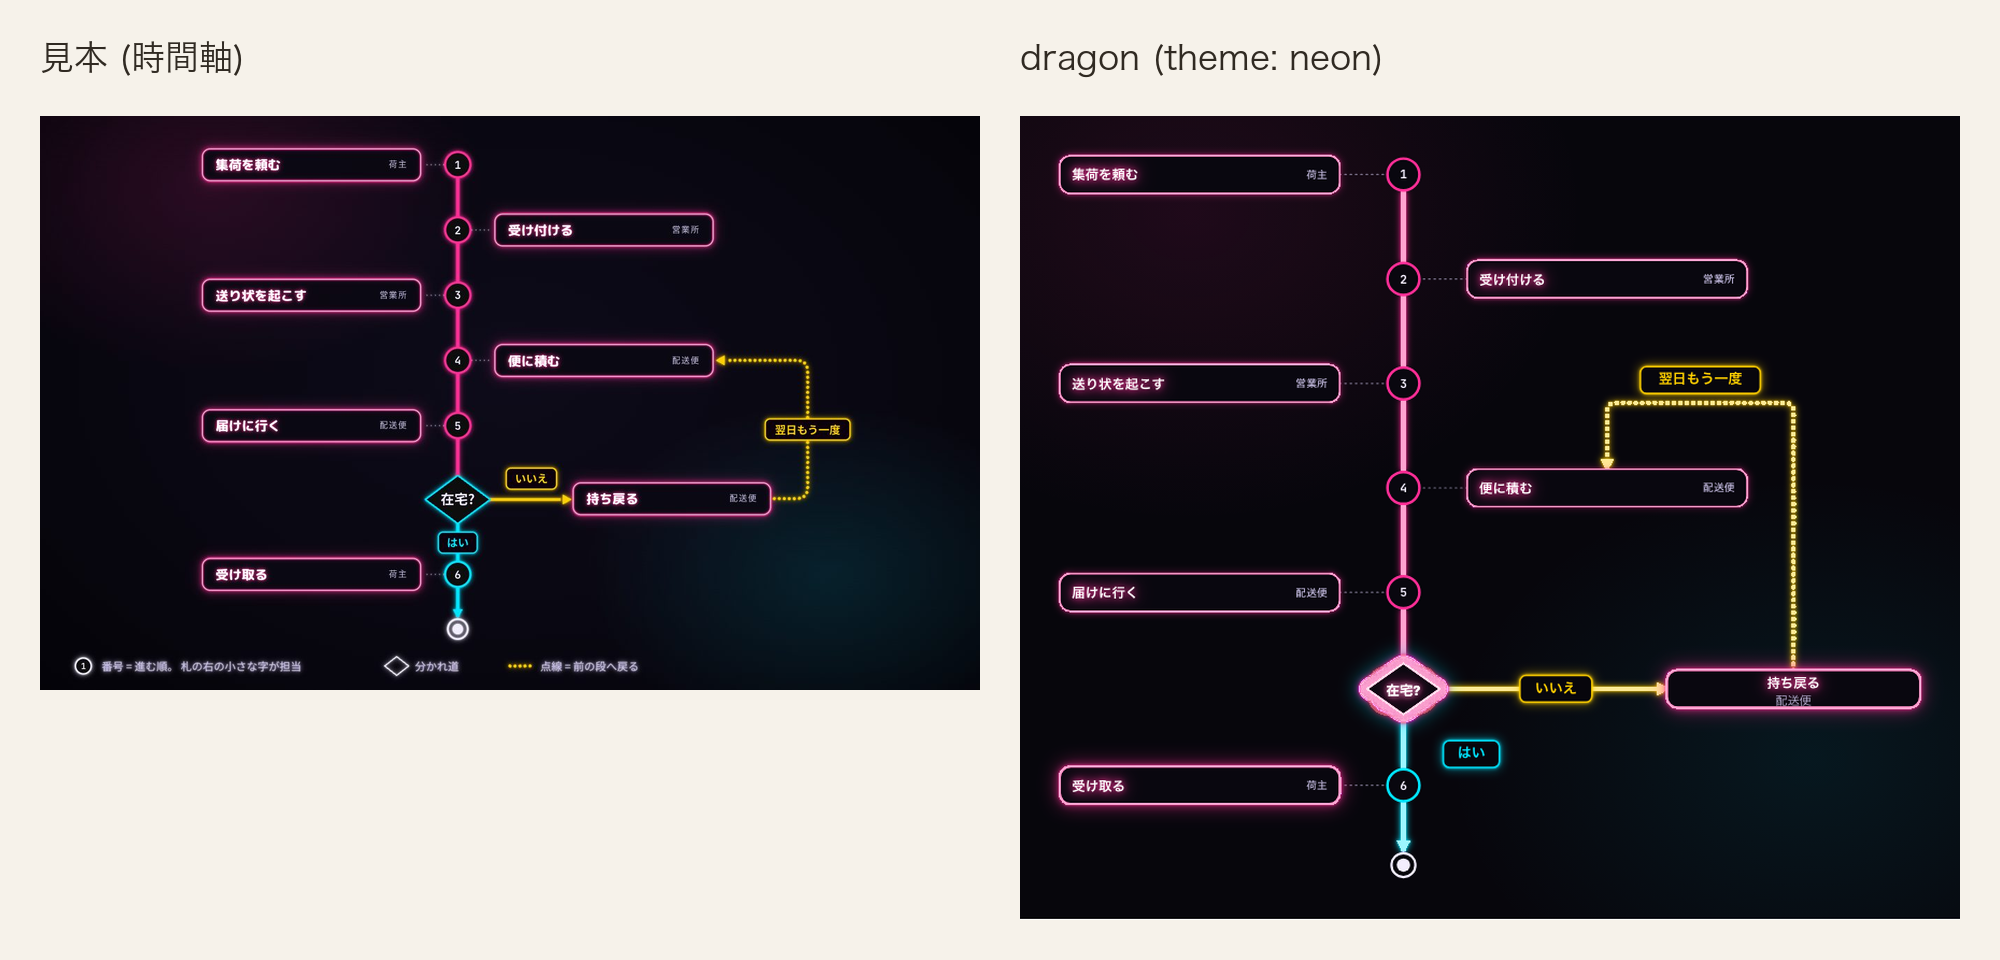
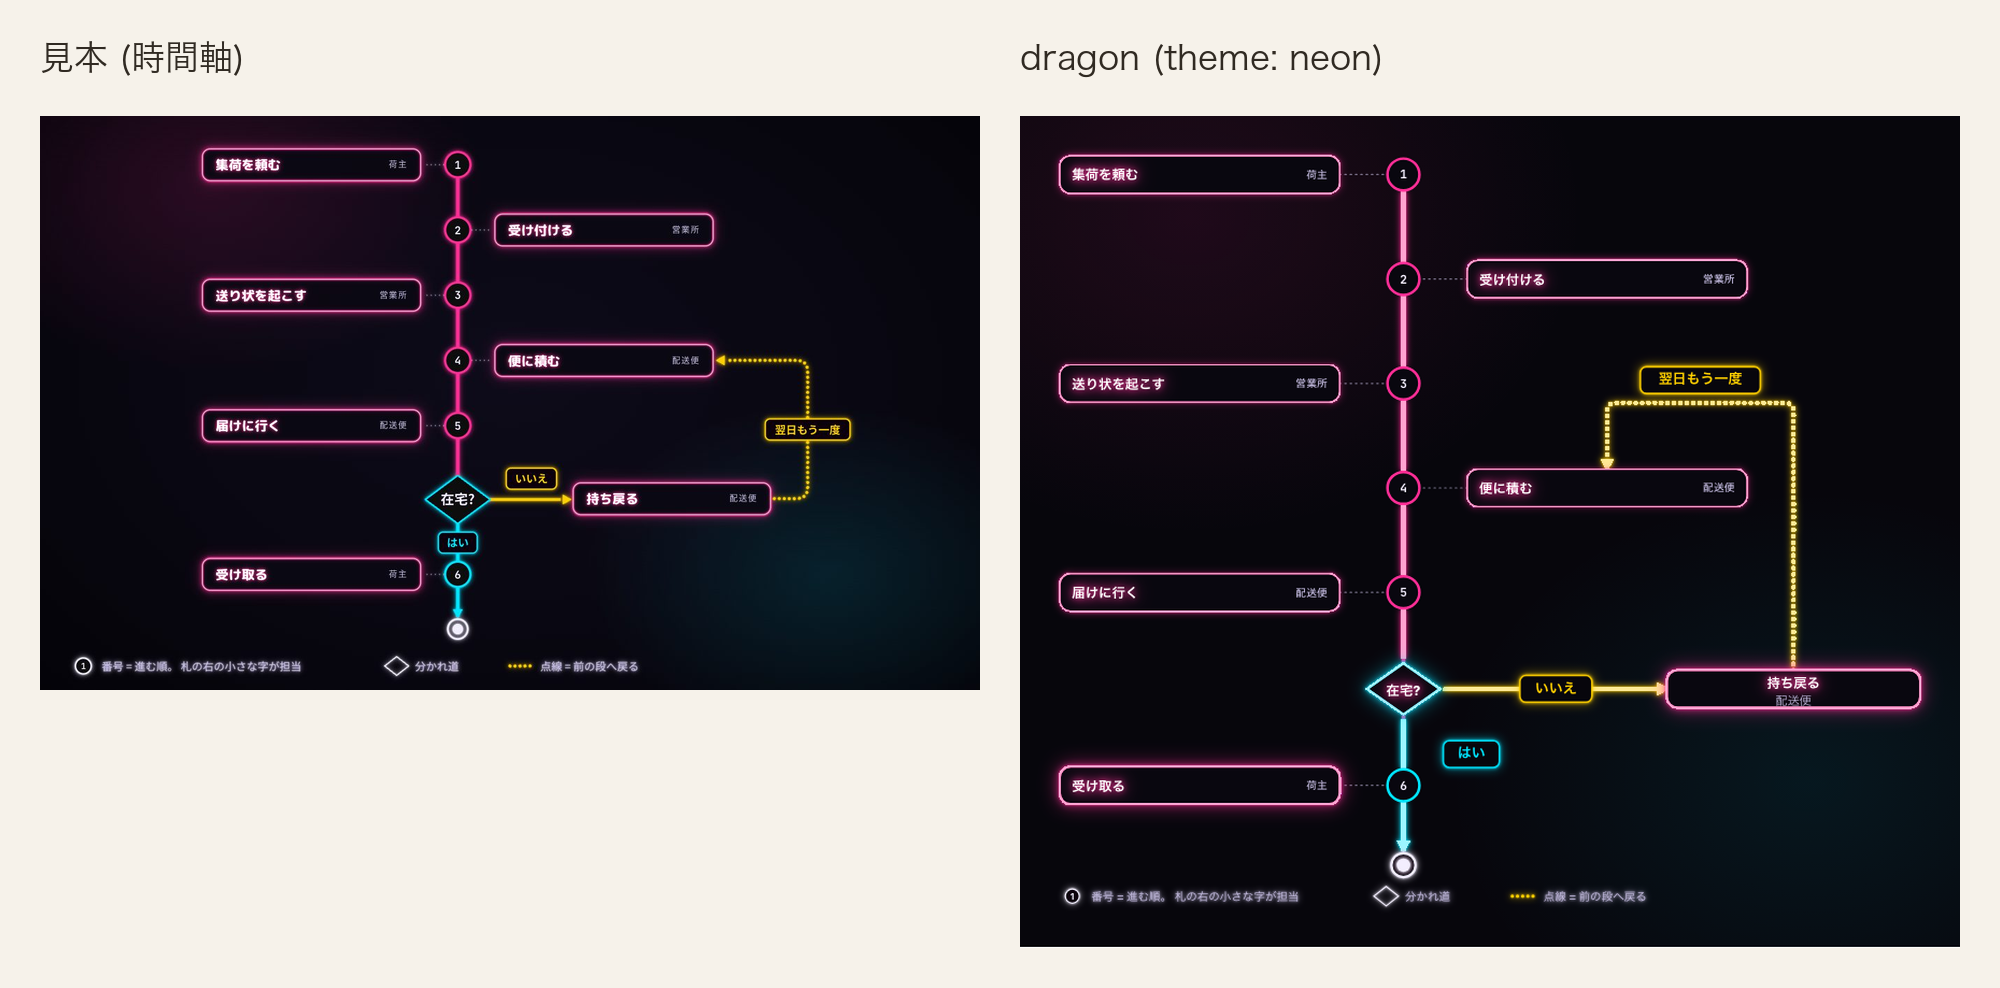
✨ feat(見本帳): 時間軸の見本に見本と同じ凡例を置き比較画像を撮り直す (#2832)
見本帳の時間軸 (荷物を届ける) の YAML と JSON に、見本の g.legend と同じ 3 項目の凡例を置く。
印は numbered-circle / diamond / dotted-line で、字は見本と同じにする。
見本帳が使い始めた凡例の欄と印の未使用の宣言を外し、受け入れの表の実測を凡例込みの 1412x1249 にする。
線の札・電飾の菱形・点の戻る線・線の太さ・凡例を入れた形で 7 意匠の比較画像を撮り直す。

diff --git a/apps/playground-spa/src/lib/catalog-value-coverage.test.ts b/apps/playground-spa/src/lib/catalog-value-coverage.test.ts
@@ -615,20 +615,14 @@ const 道の覆い方表: Record<string, 道の覆い方> = {
   "$.relations=off": { 種類: "既定", 別の値: "hover" },
   "$.theme": { 種類: "画面の切替", 選択肢: 配色の選択肢 },
   "$.palette=celadon": { 種類: "画面の切替", 選択肢: 配色の選択肢 },
-  // #2834 は見本帳の図を変えず、記法一覧と README で凡例を見せる。 10 種の印は schema と描画側の一覧を突き合わせる。
-  "$.legend": { 種類: "記法一覧", 理由: "凡例は記法一覧で見せる" },
-  "$.legend[].mark": { 種類: "記法一覧", 理由: "印は記法一覧で見せる" },
+  // 見本帳が使わない印は記法一覧と README で見せる。 10 種の印は schema と描画側の一覧を突き合わせる。
   "$.legend[].mark=arrow": { 種類: "記法一覧", 理由: "印の一覧は README で見せる" },
   "$.legend[].mark=curved-line": { 種類: "記法一覧", 理由: "印の一覧は README で見せる" },
-  "$.legend[].mark=diamond": { 種類: "記法一覧", 理由: "印の一覧は README で見せる" },
-  "$.legend[].mark=dotted-line": { 種類: "記法一覧", 理由: "印の一覧は README で見せる" },
   "$.legend[].mark=double-circle": { 種類: "記法一覧", 理由: "印の一覧は README で見せる" },
   "$.legend[].mark=filled-circle": { 種類: "記法一覧", 理由: "印の一覧は README で見せる" },
-  "$.legend[].mark=numbered-circle": { 種類: "記法一覧", 理由: "印の一覧は README で見せる" },
   "$.legend[].mark=rounded-label": { 種類: "記法一覧", 理由: "印の一覧は README で見せる" },
   "$.legend[].mark=solid-line": { 種類: "記法一覧", 理由: "印の一覧は README で見せる" },
   "$.legend[].mark=station": { 種類: "記法一覧", 理由: "印の一覧は README で見せる" },
-  "$.legend[].text": { 種類: "記法一覧", 理由: "説明は記法一覧で見せる" },
 };
 
 /**

diff --git a/apps/playground-spa/src/topics/catalog/text-dsl.cdl.ts b/apps/playground-spa/src/topics/catalog/text-dsl.cdl.ts
@@ -578,6 +578,11 @@ flow:
   - 持ち戻る -> 便に積む: "翌日もう一度" (error, dashed)
   - 受け取る -> 終わり (success)
 
+legend:
+  - { mark: numbered-circle, text: "番号 = 進む順。 札の右の小さな字が担当" }
+  - { mark: diamond, text: "分かれ道" }
+  - { mark: dotted-line, text: "点線 = 前の段へ戻る" }
+
 animation:
   - step: "集荷を受け付ける" 1.2s
     focus: [集荷を頼む, 受け付ける, 送り状を起こす, "集荷を頼む -> 受け付ける", "受け付ける -> 送り状を起こす"]
@@ -629,6 +634,11 @@ export const sourceJson__textDslSwimlaneTimeline = `{
     { "from": "在宅?", "to": "持ち戻る", "label": "いいえ", "tone": "error" },
     { "from": "持ち戻る", "to": "便に積む", "label": "翌日もう一度", "tone": "error", "style": "dashed" },
     { "from": "受け取る", "to": "終わり", "label": "", "tone": "success" }
+  ],
+  "legend": [
+    { "mark": "numbered-circle", "text": "番号 = 進む順。 札の右の小さな字が担当" },
+    { "mark": "diamond", "text": "分かれ道" },
+    { "mark": "dotted-line", "text": "点線 = 前の段へ戻る" }
   ],
   "animation": [
     {

diff --git a/packages/dragon/test/support/responsive-accepted.ts b/packages/dragon/test/support/responsive-accepted.ts
@@ -133,7 +133,8 @@ export const 受け入れた一覧: readonly 受け入れた群[] = [
     群: "丸い番号軸の左右へ宅配の札を積む時間軸 (#2832)",
     理由:
       "宅配の 6 番号・分かれ道・終わりを、戻り線と札の交差が消える最小の 157 world の" +
-      "通常段間と 145 world の分かれ道間隔で積む。戻り先の札の外を回すと 1412×1207 world になるため、" +
+      "通常段間と 145 world の分かれ道間隔で積む。戻り先の札の外を回し、凡例を下へ置くと" +
+      " 1412×1249 world になるため、" +
       "拡大表示では縦へ縮む形を受け入れる",
     図: [{ id: "荷物を届ける", 器: ["拡大"] }],
   },

diff --git a/docs/design/letterpress/note.md b/docs/design/letterpress/note.md
@@ -99,6 +99,7 @@ dragon は `relation: extends` の 2 本 (である) を墨の線と白抜きの
 dragon は軸と番号の縁を一の `--theme-lead`、「はい」を墨の `--er-link`、終わりの印を墨の `--er-ink` で描く。
 線の札は高さ 40・角 9・21 の太字とし、3 枚とも墨 `#1a1510` の面に地 `#f0eadc` の字を置く。
 戻る線は太さ 6・丸い線端・`0 9.6` の点列とし、軸と「はい」は 6、「いいえ」は 5、補助線は 2、番号の縁は 4、終わりの外輪は 3.5 で描く。
+図の下には、番号・分かれ道・戻る点線を説明する凡例を見本と同じ順で描く。
 「持ち戻る」が軸から 396 離れる点は `cardene777/cdl#1031`、担当の位置は `cardene777/cdl#1032`、線上の札が押し出される点は `cardene777/cdl#1039` に対応する。
 
 ![図表。左が見本、右が dragon の 2 図 (棒と内訳)](images/compare-chart.png)

diff --git a/CHANGELOG.md b/CHANGELOG.md
@@ -14,6 +14,7 @@ dragon DSL の主要変更履歴。
   脇の札は軸から札の内側までを見本の 220 以上とし、戻る線の縦の区間が戻り先の札を貫く配置なら、戻り先の札の右端から近接の下限 70 だけ外へ中心を置く。
   段の間は 157 とし、軸・番号・終わりの印は意匠ごとの色で描く。固定 7 意匠では線の札を線色で塗り、戻る線を細かな点列にし、見本の線幅と 17 × 19 の矢じりへ揃える。
   電飾の分かれ道は暗い面に水色の 3 の縁と同色の光を持つ。
+  見本帳の時間軸には、番号・分かれ道・前の段へ戻る点線を説明する凡例を図の下へ置く。
 
 - **図の下へ印と説明を横一列で並べる凡例を書けるようにした** (#2834)
 
